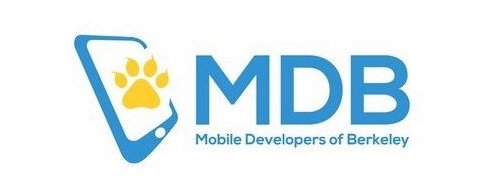
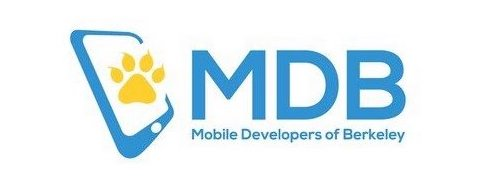
adjusting image size

Changed region(s): [[0.1232, 0.1351, 0.8624, 0.8649]]

diff --git a/index.html b/index.html
@@ -106,7 +106,7 @@
      <div class="col-sm-4">
       <p class="text-center"><strong>LinkedIn</strong></p><br>
       <p>
-          <a href="https://www.linkedin.com/public-profile/in/michelle-kroll-7492691b6/?challengeId=AQG1AlpctJ3JMAAAAXfcbHFVq_VNwjLsaSCtN9zQnl-NYJaQbFG2U5HM-VYplkFiC5b3_7a_yy9ispvXcAuZuudr0PxQvTKY3g&submissionId=e8c486a5-252f-6716-6b97-11de8d186e40">
+          <a href="https://www.linkedin.com/in/michellekroll01/"">
           <img src="/images/LinkedIn Logo.png" class="img-circle person" alt="LinkedIn Logo" width="255" height="255">
           </a>
       </p>
